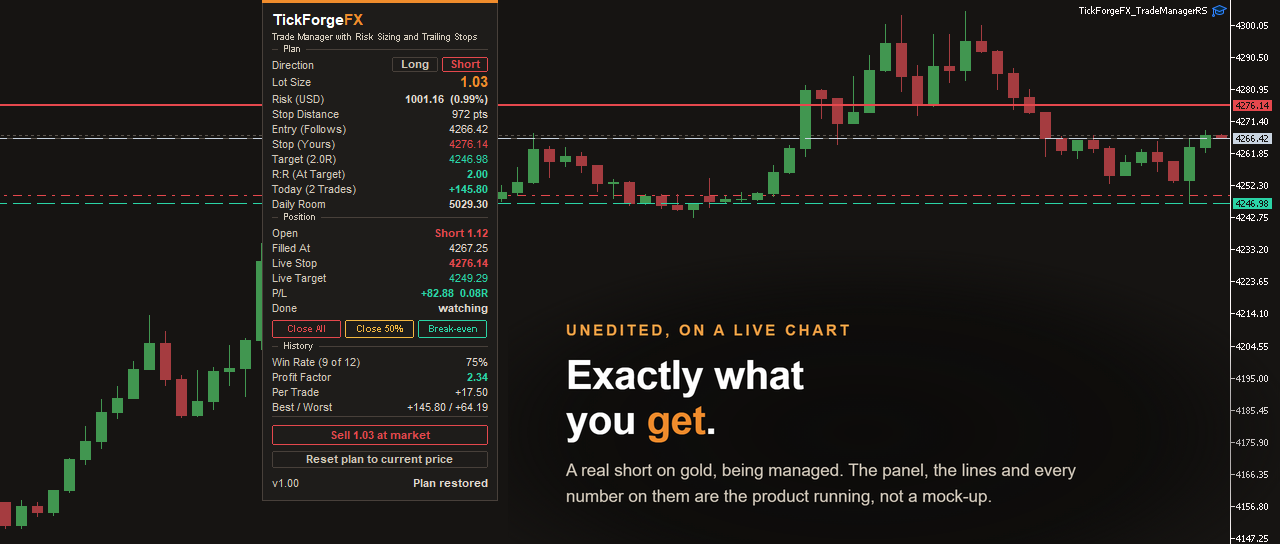
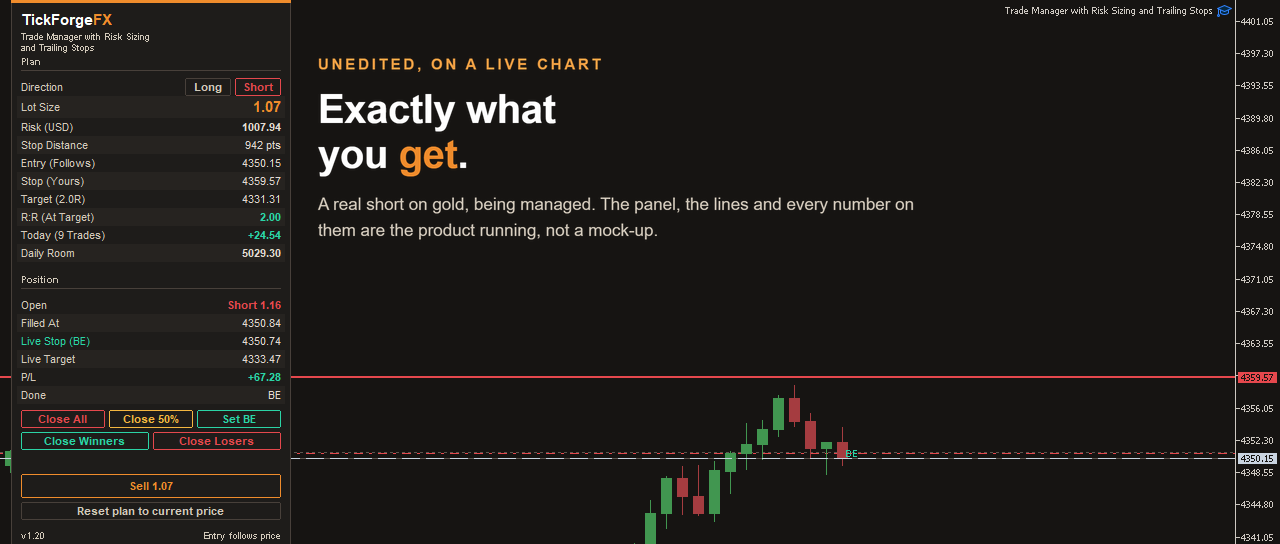
Refresh Trade Manager: v1.2 gallery, and the page finally describes the product
TMRS v1.2 is live on the Market, so the public page can catch up. Held
until now on purpose: the repo should never advertise something the
Market cannot yet sell.

Gallery five to eight, rebuilt at v1.2. The chart shot is a fresh live
capture; the previous one was from 08-06 and showed the v1.0 panel, which
is a different object (280 wide against 236, with rows, bands and
controls the old card did not have).

Three sections added, because the page described the v1.0 product: the
tool now manages trades it did not open, tells you when it acts and when
something else moves a stop it is managing, and carries five position
actions. The headline feature had no mention and no image at all.

Two corrections rather than additions. The demo paragraph said MetaTrader
never delivers clicks to an EA panel in the Strategy Tester and that the
one-click controls need a live chart. That was disproven on 08-13: it was
never a platform limit, it was our own missing z-order line, and the
controls have worked there since v1.1. And two limits that were
documented nowhere are now stated: a partial needs a position big enough
to split, and the structural trailing modes can place a first stop below
entry on a trade that arrived without one.

🤖 Generated with [Claude Code](https://claude.com/claude-code)

diff --git a/products/trade-manager-risk-sizing/PRODUCT_PAGE.md b/products/trade-manager-risk-sizing/PRODUCT_PAGE.md
@@ -2,13 +2,11 @@
 
 **MetaTrader 5 Expert Advisor / Utilities / Risk management / paid**
 
-You said one percent a trade. Your last ten say otherwise, because the stop moves and the
-lot size does not follow it. Put entry, stop and target on the chart as three draggable
-lines. Drag the stop to where the trade is actually wrong and the size follows it, so one
-percent is one percent whether that stop sits ten points away or two hundred. One click then
-sends it at exactly that size. After that it runs the trade for you: partial closes,
-break-even, a trailing stop, and a daily limit that stops you entering when the day has gone
-badly enough.
+Three lines on your chart: entry, stop and target. Drag the stop to where the trade is
+actually wrong, and the lot size follows it, so the risk stays exactly the percent you set
+no matter how wide or tight you place it. One click sends the order at that size. After
+that it runs the trade for you: partial closes, break-even, a trailing stop, and a daily
+limit that stops you entering when the day has gone badly enough.
 
 **It never decides to trade. You do.** There are no signals, no entry rules and no strategy
 anywhere in it. You choose the direction and the levels; this places that trade at the
@@ -21,11 +19,17 @@ correct size and then manages it exactly the way you configured.
 - Drag Entry, Stop and Target. Grab them anywhere along the line, not at one hidden weld
   point.
 - Lot size, money at risk, stop distance and reward-to-risk recompute as you drag.
-- Risk as a percent of balance or equity, or a fixed amount in your account currency.
+- Risk as a percent of balance or of equity. Set a fixed account size and the percent is
+  measured against that instead of your live balance, so a good week does not quietly grow
+  your position size.
 - Prefer a rule to a drag? Put the stop a fixed number of points or an ATR multiple behind
   price, and lock the target to a reward-to-risk multiple so it follows.
 - Your plan is saved per symbol and restored when you come back, so a timeframe change or a
   restart never quietly rebuilds it from wherever price happens to be.
+
+- A level you cannot see still tells you where it is. Zoom in until a line leaves the view
+  and it pins to the edge of the chart as a chip showing its name and price. Click it and the
+  chart refits.
 
 ## Enter it in one click
 
@@ -37,6 +41,38 @@ correct size and then manages it exactly the way you configured.
 - An optional second click confirms, and the confirmation expires on its own and dies the
   moment you move a line.
 
+## It manages the trade you opened on your phone
+
+![Opened by hand, managed anyway](../../screenshots/TradeManagerRS/banners/tmrs-adopt-dark.png)
+
+Out of the box it manages every position on the chart's symbol, however it got there.
+Opened from this panel, opened by hand with F9, opened from the phone app on the train,
+opened by another EA. **A trade that arrived with no stop at all is given one**, at the
+distance you chose, without you touching the terminal. If you would rather it stayed out of
+everything it did not open, one dropdown says so.
+
+It will not take a partial for ground covered before it was watching, either. Attach it to a
+chart where a trade is already past your partial level and it leaves that level alone rather
+than closing half of a position it has only just met.
+
+## It tells you when it acts, and when something else does
+
+![It tells you when it acts](../../screenshots/TradeManagerRS/banners/tmrs-alerts-dark.png)
+
+A popup, a sound, a push to the phone app and an email, whichever of the four you want. The
+panel footer names the last event, the chart is marked at the price it happened, and the log
+keeps the record. **And if a stop it is managing is moved, or removed altogether, by anything
+other than this tool, you get one warning that says which of the two happened.**
+
+## Five buttons for the moment you want out
+
+![Five buttons, each asks twice](../../screenshots/TradeManagerRS/banners/tmrs-actions-dark.png)
+
+Close All, Close 50%, Set BE, Close Winners, Close Losers. Each asks for a second click, only
+one can be armed at a time, and an armed button dies the instant the positions it was aimed
+at change. Each then reports what it did, including when the honest answer is that there was
+nothing to close.
+
 ## Then it manages the trade
 
 ![What happens after the fill](../../screenshots/TradeManagerRS/banners/tmrs-manage-dark.png)
@@ -46,7 +82,7 @@ correct size and then manages it exactly the way you configured.
 | Partial close | Takes part of the position off at your first target |
 | Break-even | Stop to entry plus a buffer, so it locks a little rather than sitting on your fill |
 | Second partial | A percent of what is left, not of the original size |
-| Trailing stop | Fixed distance, ATR, Chandelier below the high since entry, or behind the last N closed candles |
+| Trailing stop | Fixed distance, ATR, Chandelier below the high since entry, or behind the last N closed candles. The fixed distance follows price; the other three place the stop from market structure |
 
 Triggers read in whichever unit suits you: points, ATR multiples, R multiples, or your
 account currency. Everything reads closed bars, so nothing repaints, and the stop only ever
@@ -61,7 +97,7 @@ headroom you have left before either one bites. On a breach it cancels its worki
 closes what it opened and refuses new entries until the day rolls. It is a limit that acts,
 not a progress bar that watches.
 
-## The parts nobody advertises
+## What it refuses to do
 
 ![It refuses to size a bad plan](../../screenshots/TradeManagerRS/banners/tmrs-guard-dark.png)
 
@@ -70,38 +106,82 @@ not a progress bar that watches.
   tight to size. That is the single most expensive mistake a sizing tool can make, and it is
   one click from being an order.
 - **A button that cannot fire tells you why.** Market closed, trading disabled, daily limit
-  reached, not enough free margin, stop too close to the current price. Ten distinct
+  reached, not enough free margin, stop too close to the current price. Nineteen distinct
   reasons, in plain words, instead of a control that silently does nothing.
 - **The sizing arithmetic is right on instruments where it usually is not.** A stop is a loss
   and a target is a gain, and on many CFDs and crosses your broker values those two
   differently. Sizing off the wrong one quietly risks more than you asked for. This reads the
   correct value for each leg.
-- **A level you cannot see still tells you where it is.** Zoom in until a line leaves the view
-  and it pins to the edge of the chart as a chip showing its name and price. Click it and the
-  chart refits.
 - **If price runs through your stop while the entry is tracking price, the plan voids.** It
   does not silently flip into the opposite trade, which is what reading direction from
   geometry alone would do.
+- **The stop is never widened.** Not in any trailing mode, not after a partial, not across a
+  restart. It only ever moves toward you.
+
+## It stays out of the way
+
+A panel you leave on the chart all day should cost you almost nothing. This one is built so
+it does.
+
+- **The panel redraws at most twice a second**, not on every tick. The expensive work sits
+  behind a deliberate throttle.
+- **It puts nothing in your Objects list.** Open the object window on a chart running this
+  and it is empty. The whole interface is drawn as hidden objects, so it never clutters the
+  list you keep your own lines and zones in, and you cannot select or delete half the panel
+  by accident while you are working.
+- **Every reading comes from closed bars**, so nothing it shows you can change after the fact.
 
 ## Good to know
 
 - Works on netting and hedging accounts, on any symbol your broker offers.
-- It manages the positions it opened, identified by its own magic number, so it will not
-  touch your other trades or another tool's.
-- Partials, break-even, trailing, the target line and the account limits can each be switched
-  off. With all of them off it is simply a risk-sized one-click entry panel.
+- It manages every trade on the chart's symbol by default, whichever tool or hand opened it.
+  Set Manage to "Only trades this tool opened" and it goes back to touching nothing but its
+  own, identified by its own magic number.
+- Partials, break-even, trailing, the target line, the alerts and the account limits can each
+  be switched off. With all of them off it is simply a risk-sized one-click entry panel.
 - Every stage fires at most once per position, and that memory survives a restart, a
   recompile and a change of ticket.
+- A break-even or trailing trigger smaller than your broker's own minimum stop distance can
+  never execute, and the card will keep saying "too close to move yet" for as long as it stays
+  that way. If you see that permanently, the number to raise is the trigger.
+- **A partial needs a position big enough to split.** On a symbol whose smallest tradable size
+  is 0.01, Partial 1 needs 0.02 or more, and Partial 2 needs roughly 0.08, because it takes a
+  quarter of what Partial 1 left behind. Below those sizes the level is retired quietly instead
+  of being retried forever, because your broker will not accept an order smaller than its
+  minimum.
+- **On a trade that reached it with no stop at all, the three structural trailing modes can
+  set the first stop below your entry price.** Break-even, the two extra ladder steps and the
+  fixed-distance trail never place below it. ATR, Chandelier and candle place where the
+  structure is, and sometimes the structure is behind your entry. That is a capped loss where
+  a moment ago there was none, so it is a reduction rather than a widening, but it is worth
+  knowing before you point a structural mode at a trade you opened by hand.
 
 ## About the demo, stated plainly
 
-On the MQL5 Market a paid product's demo runs only in the Strategy Tester, and MetaTrader
-does not deliver click events to an Expert Advisor's panel there. That is a platform
-limitation and it is not something this product can fix. So the demo will draw the panel,
-size the trade and run the full management engine in visual mode, and you can watch all of
-it work, but the one-click controls need a live chart. The gallery video shows the panel
-being driven on a real chart.
+On the MQL5 Market a paid product's demo runs only in the Strategy Tester. The panel is
+fully usable there: pick your direction, place the trade from the panel, press the action
+buttons, and watch break-even, the partial closes and the trailing stop run on that position
+as the test advances.
+
+Two things do not work in the tester and neither one is a setting of this tool. The panel
+cannot be dragged. And alerts cannot be delivered at all, so no popup, sound, push or email
+will fire there. What the tester does still show you is that they fired: every event names
+itself in the panel footer, marks the chart at the price it happened, and is written to the
+log. On a live chart all four delivery channels behave normally, and the gallery video shows
+the panel being driven on one.
 
 ---
 
 Part of the [TickForgeFX](https://github.com/TickForgeFX/trading-tools-portfolio) toolkit.
+
+## If you need me, I answer
+
+Ask in the comments or by MQL5 message and you get a reply from the person who wrote the
+code, not a support desk. If something is broken I want to know about it, and a bug report
+gets a fix rather than a workaround.
+
+## This is a new listing, and you can see that
+
+No long review history and no years of version numbers behind it. What being early buys you
+is this price, kept for good on everything you own, and a developer with the time to actually
+answer you. It goes up as reviews come in, not down.
